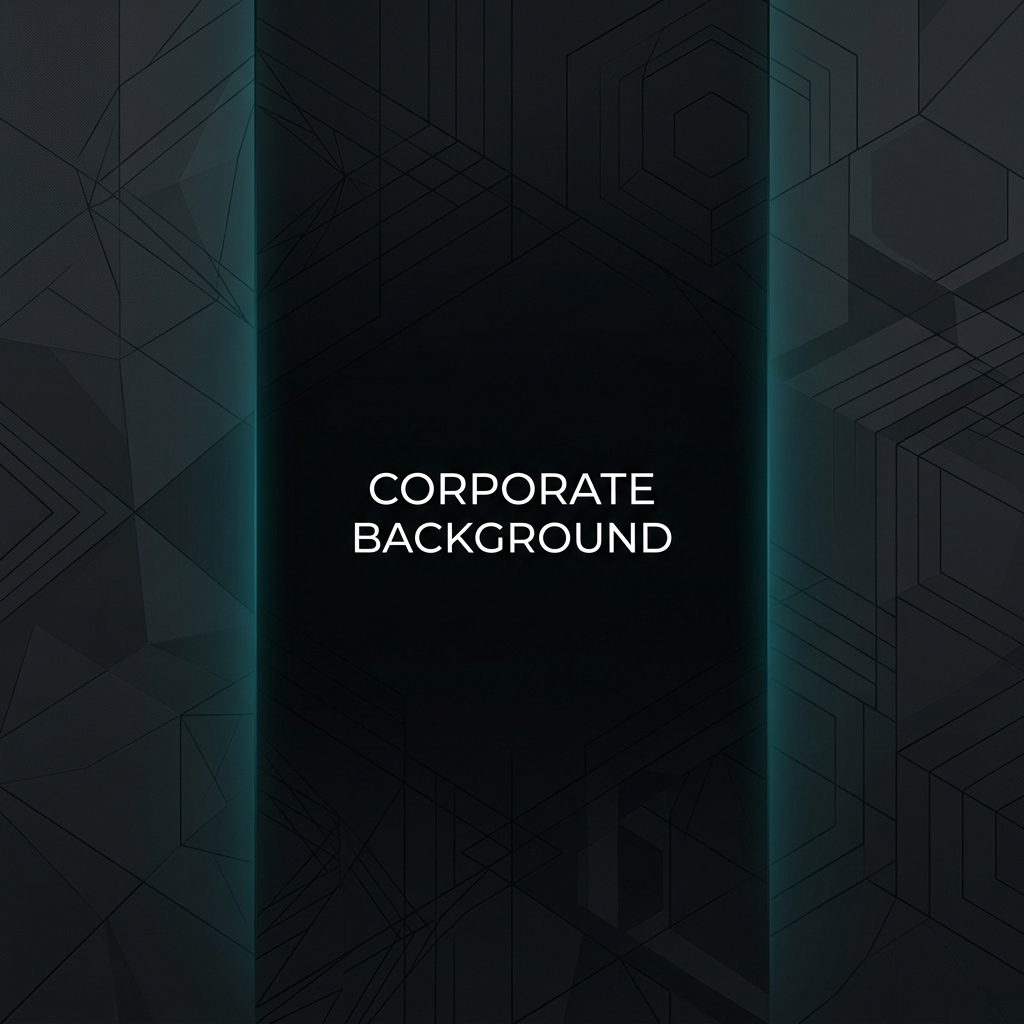
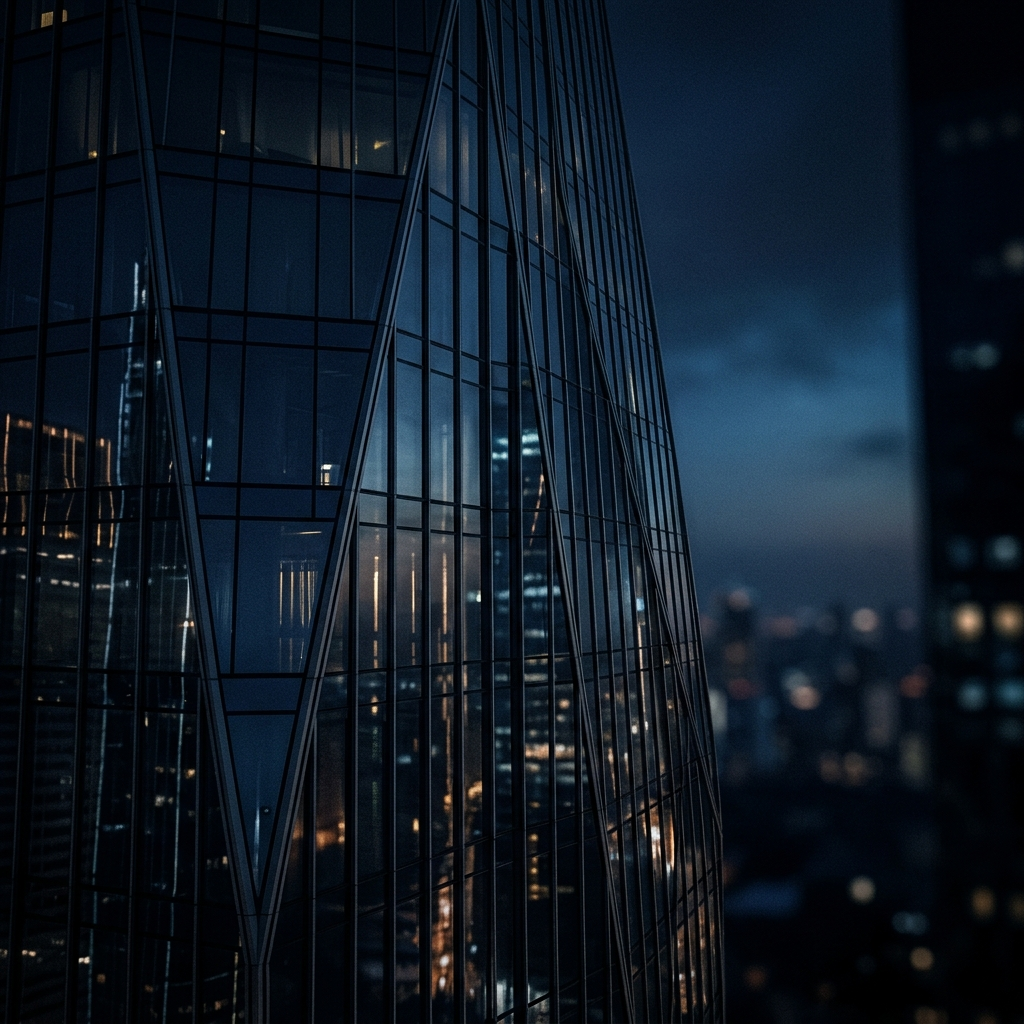
Add glass building sidebar BG, increase sidebar width, and integrate real dashboard data

diff --git a/frontend/src/pages/Dashboard.tsx b/frontend/src/pages/Dashboard.tsx
@@ -1,11 +1,11 @@
-import React, { useState, useEffect } from 'react';
+import React, { useState, useEffect, useMemo } from 'react';
 import { useMsal } from '@azure/msal-react';
 import { useNavigate } from 'react-router-dom';
 import { 
   Container, Grid, Card, CardContent, Typography, Box, Divider, Button, LinearProgress, TextField
 } from '@mui/material';
 import { 
-  Description, LibraryBooks, Article, Help, Group, CheckCircleOutline, UploadFile, Add, Search, Assessment
+  Description, LibraryBooks, Article, Help, Group, CheckCircleOutline, UploadFile, Add, Search, Assessment, Business, AccountBalance
 } from '@mui/icons-material';
 import api from '../services/api';
 
@@ -22,17 +22,48 @@ const Dashboard: React.FC = () => {
     faqs: 0
   });
 
+  const [recentDocs, setRecentDocs] = useState<any[]>([]);
+
   useEffect(() => {
-    const fetchStats = async () => {
+    const fetchData = async () => {
       try {
-        const response = await api.get('/documents/stats/overview');
-        setStats(response.data);
+        const [statsRes, docsRes] = await Promise.all([
+          api.get('/documents/stats/overview'),
+          api.get('/documents?limit=50')
+        ]);
+        setStats(statsRes.data);
+        setRecentDocs(docsRes.data.data || []);
       } catch (error) {
-        console.error('Failed to fetch statistics:', error);
+        console.error('Failed to fetch dashboard data:', error);
       }
     };
-    fetchStats();
+    fetchData();
   }, []);
+
+  // Calculate department percentages based on recent docs
+  const departmentStats = useMemo(() => {
+    if (recentDocs.length === 0) return [];
+    
+    const counts: Record<string, number> = {};
+    recentDocs.forEach(doc => {
+      counts[doc.department] = (counts[doc.department] || 0) + 1;
+    });
+
+    const total = recentDocs.length;
+    const colors = ['teal', 'blue', 'amber', 'red', 'purple'];
+    
+    return Object.entries(counts)
+      .map(([name, count], index) => ({
+        name,
+        code: name.substring(0, 3).toUpperCase(),
+        percent: Math.round((count / total) * 100),
+        color: colors[index % colors.length]
+      }))
+      .sort((a, b) => b.percent - a.percent)
+      .slice(0, 4); // Top 4 departments
+  }, [recentDocs]);
+
+  const latestUpdates = recentDocs.slice(0, 5);
 
   const currentDate = new Date().toLocaleDateString('en-US', { 
     weekday: 'long', day: 'numeric', month: 'long', year: 'numeric' 
@@ -44,7 +75,7 @@ const Dashboard: React.FC = () => {
       <Box sx={{ mb: 4, display: 'flex', justifyContent: 'space-between', alignItems: 'flex-start', flexWrap: 'wrap', gap: 2 }}>
         <Box>
           <Typography variant="h5" sx={{ color: 'var(--text-primary)', fontWeight: 600, mb: 0.5 }}>
-            Good morning, {userName} 👋
+            Welcome, {userName} 👋
           </Typography>
           <Typography variant="body2" sx={{ color: 'var(--text-secondary)' }}>
             {currentDate} · Here's what's happening at CFMARC
@@ -97,7 +128,7 @@ const Dashboard: React.FC = () => {
       </Grid>
 
       <Grid container spacing={3}>
-        {/* Left Column: 2x2 Stats & Recently Viewed */}
+        {/* Left Column: 2x2 Stats & Department/Category */}
         <Grid item xs={12} md={7}>
           {/* 2x2 Grid for Stat Cards */}
           <Grid container spacing={2} sx={{ mb: 3 }}>
@@ -106,7 +137,7 @@ const Dashboard: React.FC = () => {
                 <CardContent sx={{ p: 2 }}>
                   <Box sx={{ display: 'flex', flexDirection: 'column' }}>
                     <Box sx={{ width: 36, height: 36, borderRadius: 2, display: 'flex', alignItems: 'center', justifyContent: 'center', backgroundColor: 'var(--icon-bg-teal)', color: 'var(--icon-text-teal)', mb: 1.5 }}>
-                      <Description fontSize="small" />
+                      <Article fontSize="small" />
                     </Box>
                     <Typography variant="caption" sx={{ color: 'var(--text-secondary)', mb: 0.5 }}>Total Documents</Typography>
                     <Typography variant="h5" sx={{ color: 'var(--text-primary)', fontWeight: 600, mb: 0.5 }}>{stats.total}</Typography>
@@ -119,10 +150,10 @@ const Dashboard: React.FC = () => {
                 <CardContent sx={{ p: 2 }}>
                   <Box sx={{ display: 'flex', flexDirection: 'column' }}>
                     <Box sx={{ width: 36, height: 36, borderRadius: 2, display: 'flex', alignItems: 'center', justifyContent: 'center', backgroundColor: 'var(--icon-bg-blue)', color: 'var(--icon-text-blue)', mb: 1.5 }}>
-                      <Assessment fontSize="small" />
+                      <Business fontSize="small" />
                     </Box>
-                    <Typography variant="caption" sx={{ color: 'var(--text-secondary)', mb: 0.5 }}>Total Views</Typography>
-                    <Typography variant="h5" sx={{ color: 'var(--text-primary)', fontWeight: 600, mb: 0.5 }}>124</Typography>
+                    <Typography variant="caption" sx={{ color: 'var(--text-secondary)', mb: 0.5 }}>Company Policies</Typography>
+                    <Typography variant="h5" sx={{ color: 'var(--text-primary)', fontWeight: 600, mb: 0.5 }}>{stats.policies}</Typography>
                   </Box>
                 </CardContent>
               </Card>
@@ -132,10 +163,10 @@ const Dashboard: React.FC = () => {
                 <CardContent sx={{ p: 2 }}>
                   <Box sx={{ display: 'flex', flexDirection: 'column' }}>
                     <Box sx={{ width: 36, height: 36, borderRadius: 2, display: 'flex', alignItems: 'center', justifyContent: 'center', backgroundColor: 'var(--icon-bg-amber)', color: 'var(--icon-text-amber)', mb: 1.5 }}>
-                      <Group fontSize="small" />
+                      <LibraryBooks fontSize="small" />
                     </Box>
-                    <Typography variant="caption" sx={{ color: 'var(--text-secondary)', mb: 0.5 }}>Active Users</Typography>
-                    <Typography variant="h5" sx={{ color: 'var(--text-primary)', fontWeight: 600, mb: 0.5 }}>8</Typography>
+                    <Typography variant="caption" sx={{ color: 'var(--text-secondary)', mb: 0.5 }}>SOPs Available</Typography>
+                    <Typography variant="h5" sx={{ color: 'var(--text-primary)', fontWeight: 600, mb: 0.5 }}>{stats.sops}</Typography>
                   </Box>
                 </CardContent>
               </Card>
@@ -145,10 +176,10 @@ const Dashboard: React.FC = () => {
                 <CardContent sx={{ p: 2 }}>
                   <Box sx={{ display: 'flex', flexDirection: 'column' }}>
                     <Box sx={{ width: 36, height: 36, borderRadius: 2, display: 'flex', alignItems: 'center', justifyContent: 'center', backgroundColor: 'var(--icon-bg-red)', color: 'var(--icon-text-red)', mb: 1.5 }}>
-                      <CheckCircleOutline fontSize="small" />
+                      <Help fontSize="small" />
                     </Box>
-                    <Typography variant="caption" sx={{ color: 'var(--text-secondary)', mb: 0.5 }}>Pending Reviews</Typography>
-                    <Typography variant="h5" sx={{ color: 'var(--text-primary)', fontWeight: 600, mb: 0.5 }}>3</Typography>
+                    <Typography variant="caption" sx={{ color: 'var(--text-secondary)', mb: 0.5 }}>FAQs</Typography>
+                    <Typography variant="h5" sx={{ color: 'var(--text-primary)', fontWeight: 600, mb: 0.5 }}>{stats.faqs}</Typography>
                   </Box>
                 </CardContent>
               </Card>
@@ -159,15 +190,11 @@ const Dashboard: React.FC = () => {
           <Card sx={{ background: 'var(--card-bg-white)', borderColor: 'var(--card-border)', borderWidth: 1, borderStyle: 'solid', borderRadius: 2, mb: 3 }}>
             <CardContent sx={{ p: 2 }}>
               <Box sx={{ display: 'flex', justifyContent: 'space-between', alignItems: 'center', mb: 2 }}>
-                <Typography variant="subtitle1" sx={{ color: 'var(--text-primary)', fontWeight: 600 }}>Department Activity</Typography>
-                <Typography variant="caption" sx={{ color: 'var(--icon-text-teal)', cursor: 'pointer' }}>Full report</Typography>
+                <Typography variant="subtitle1" sx={{ color: 'var(--text-primary)', fontWeight: 600 }}>Department Focus</Typography>
+                <Typography variant="caption" sx={{ color: 'var(--icon-text-teal)', cursor: 'pointer' }}>Based on recent docs</Typography>
               </Box>
               <Box sx={{ display: 'flex', flexDirection: 'column', gap: 2 }}>
-                {[
-                  { name: 'Human Resources', code: 'HR', percent: 80, color: 'teal' },
-                  { name: 'IT Department', code: 'IT', percent: 60, color: 'blue' },
-                  { name: 'Finance', code: 'FIN', percent: 35, color: 'amber' }
-                ].map((item, i) => (
+                {departmentStats.length > 0 ? departmentStats.map((item, i) => (
                   <Box key={i} sx={{ display: 'flex', alignItems: 'center', justifyContent: 'space-between' }}>
                     <Box sx={{ display: 'flex', alignItems: 'center', gap: 1.5 }}>
                       <Box sx={{ width: 32, height: 32, borderRadius: 1.5, backgroundColor: `var(--icon-bg-${item.color})`, color: `var(--icon-text-${item.color})`, display: 'flex', alignItems: 'center', justifyContent: 'center', fontWeight: 600, fontSize: '0.75rem' }}>
@@ -187,7 +214,9 @@ const Dashboard: React.FC = () => {
                       <Typography variant="caption" sx={{ color: `var(--icon-text-${item.color})`, width: 30, textAlign: 'right' }}>{item.percent}%</Typography>
                     </Box>
                   </Box>
-                ))}
+                )) : (
+                  <Typography variant="body2" sx={{ color: 'var(--text-muted)', py: 2, textAlign: 'center' }}>No recent department activity</Typography>
+                )}
               </Box>
             </CardContent>
           </Card>
@@ -227,29 +256,34 @@ const Dashboard: React.FC = () => {
             <CardContent sx={{ p: 2 }}>
               <Box sx={{ display: 'flex', justifyContent: 'space-between', alignItems: 'center', mb: 2 }}>
                 <Typography variant="subtitle1" sx={{ color: 'var(--text-primary)', fontWeight: 600 }}>Latest Updates</Typography>
-                <Typography variant="caption" sx={{ color: 'var(--icon-text-teal)', cursor: 'pointer' }}>View all</Typography>
+                <Typography variant="caption" sx={{ color: 'var(--icon-text-teal)', cursor: 'pointer' }} onClick={() => navigate('/documents/default')}>View all</Typography>
               </Box>
               
               <Box sx={{ display: 'flex', flexDirection: 'column', gap: 2 }}>
-                {[
-                  { title: 'New SOP uploaded', desc: 'Test.pdf added to HR department', time: '2 hours ago · Admin', color: 'teal', icon: <Description fontSize="small" /> },
-                  { title: 'FAQ updated', desc: '"How to Raise Complaint?" answer revised', time: 'Yesterday · Admin', color: 'amber', icon: <Help fontSize="small" /> },
-                  { title: 'New user access', desc: '3 employees onboarded to portal', time: '2 days ago · IT Dept', color: 'blue', icon: <Group fontSize="small" /> },
-                  { title: 'Policy review due', desc: 'Leave Policy expires in 7 days', time: 'Reminder · Compliance', color: 'red', icon: <CheckCircleOutline fontSize="small" /> },
-                  { title: 'Document downloaded', desc: 'Test.pdf by Rahul S.', time: '3 days ago · HR Dept', color: 'blue', icon: <Assessment fontSize="small" /> }
-                ].map((item, i) => (
-                  <Box key={i} sx={{ display: 'flex', alignItems: 'flex-start', gap: 1.5 }}>
-                    <Box sx={{ mt: 0.5, p: 1, borderRadius: '50%', backgroundColor: `var(--icon-bg-${item.color})`, color: `var(--icon-text-${item.color})`, display: 'flex' }}>
-                      {item.icon}
+                {latestUpdates.length > 0 ? latestUpdates.map((doc, i) => {
+                  const isFaq = doc.category === 'FAQS';
+                  const color = isFaq ? 'amber' : (doc.category === 'POLICIES' ? 'blue' : 'teal');
+                  const icon = isFaq ? <Help fontSize="small" /> : (doc.category === 'POLICIES' ? <Business fontSize="small" /> : <Description fontSize="small" />);
+                  const time = new Date(doc.createdAt).toLocaleDateString();
+                  
+                  return (
+                    <Box key={i} sx={{ display: 'flex', alignItems: 'flex-start', gap: 1.5 }}>
+                      <Box sx={{ mt: 0.5, p: 1, borderRadius: '50%', backgroundColor: `var(--icon-bg-${color})`, color: `var(--icon-text-${color})`, display: 'flex' }}>
+                        {icon}
+                      </Box>
+                      <Box>
+                        <Typography variant="body2" sx={{ color: 'var(--text-primary)', fontWeight: 500 }}>
+                          {doc.title} <Typography component="span" variant="caption" sx={{ color: 'var(--text-secondary)' }}>— {doc.department}</Typography>
+                        </Typography>
+                        <Typography variant="caption" sx={{ color: 'var(--text-muted)' }}>
+                          {doc.category} · Added {time} {doc.uploader ? `by ${doc.uploader.name.split(' ')[0]}` : ''}
+                        </Typography>
+                      </Box>
                     </Box>
-                    <Box>
-                      <Typography variant="body2" sx={{ color: 'var(--text-primary)', fontWeight: 500 }}>
-                        {item.title} <Typography component="span" variant="caption" sx={{ color: 'var(--text-secondary)' }}>— {item.desc}</Typography>
-                      </Typography>
-                      <Typography variant="caption" sx={{ color: 'var(--text-muted)' }}>{item.time}</Typography>
-                    </Box>
-                  </Box>
-                ))}
+                  );
+                }) : (
+                  <Typography variant="body2" sx={{ color: 'var(--text-muted)', py: 2, textAlign: 'center' }}>No recent updates</Typography>
+                )}
               </Box>
             </CardContent>
           </Card>

diff --git a/frontend/src/components/Layout.tsx b/frontend/src/components/Layout.tsx
@@ -17,7 +17,7 @@ import ExpandLess from '@mui/icons-material/ExpandLess';
 import ExpandMore from '@mui/icons-material/ExpandMore';
 import { useMsal } from '@azure/msal-react';
 
-const drawerWidth = 260;
+const drawerWidth = 275;
 
 const colors = {
   sidebarBg: 'var(--sidebar-bg)',